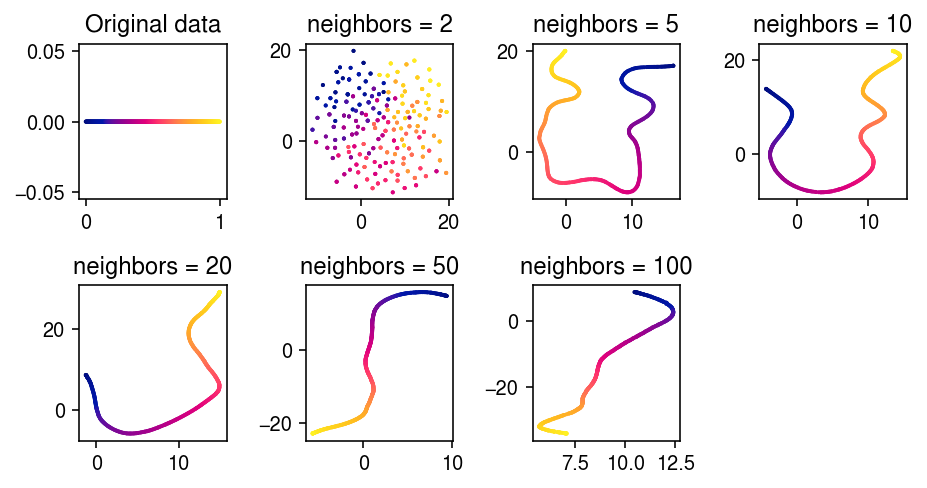
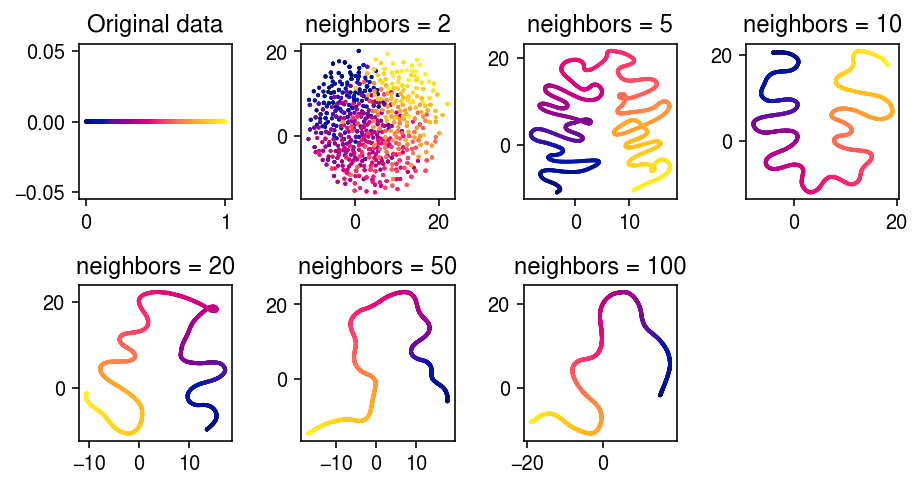
Expand t-SNE/UMAP example

diff --git a/docs/tsne.html b/docs/tsne.html
@@ -1,7 +1,7 @@
 <!DOCTYPE html>
 <html lang="en">
 <head>
-<!-- 2021-01-08 Fri 12:06 -->
+<!-- 2021-08-25 Wed 18:48 -->
 <meta charset="utf-8">
 <meta name="viewport" content="width=device-width, initial-scale=1">
 <title>Pathological input to t-SNE</title>
@@ -248,7 +248,7 @@ for the JavaScript code in this tag.
 <p>
 Peter Carbonetto reported an issue where t-SNE learns clusters from a topic
 model embedding where it shouldn&rsquo;t. We give a simple example with
-continuously varying data where t-SNE invents clusters.
+continuously varying data where both t-SNE and UMAP invent clusters.
 </p>
 </div>
 </div>
@@ -287,7 +287,7 @@ Generate data varying in one dimension only
 </p>
 
 <div class="org-src-container">
-<pre class="src src-ipython"><span class="org-variable-name">n</span> = 500
+<pre class="src src-ipython"><span class="org-variable-name">n</span> = 2000
 <span class="org-variable-name">x</span> = np.linspace(0, 1, n)
 <span class="org-variable-name">c</span> = colorcet.cm[<span class="org-string">'bmy'</span>](x)
 <span class="org-variable-name">y</span> = np.zeros(n)
@@ -363,7 +363,7 @@ fig.tight_layout()
 </div>
 <div id="postamble" class="status">
 <p class="author">Author: Abhishek Sarkar</p>
-<p class="date">Created: 2021-01-08 Fri 12:06</p>
+<p class="date">Created: 2021-08-25 Wed 18:48</p>
 <p class="validation"><a href="http://validator.w3.org/check?uri=referer">Validate</a></p>
 </div>
 </body>
